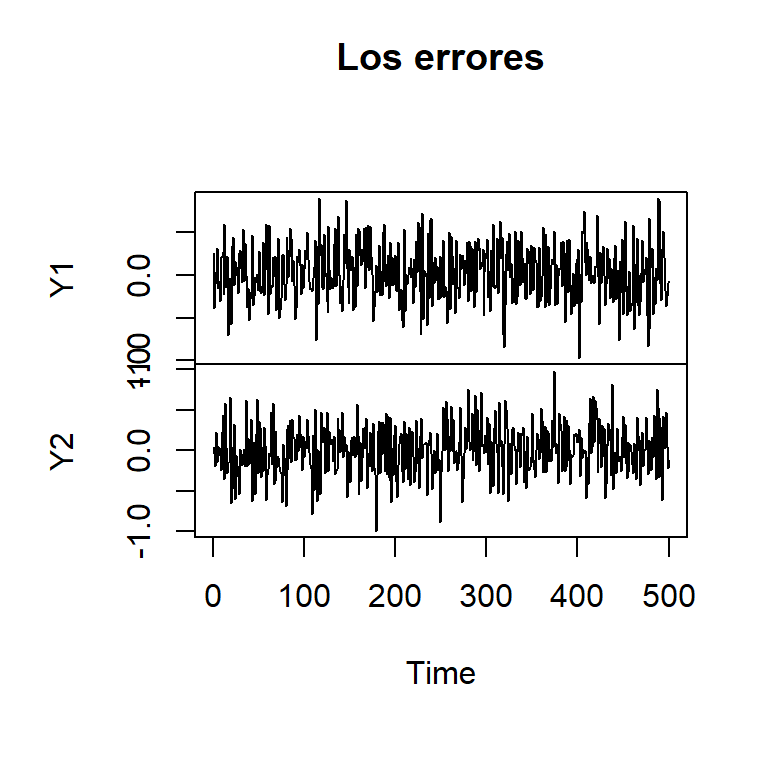
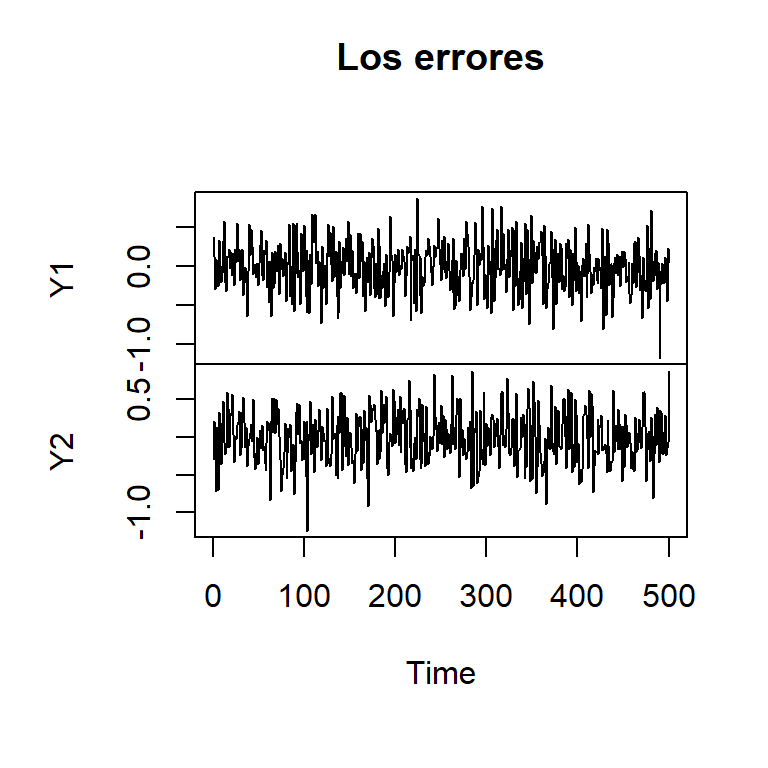
Tema_9

diff --git a/Tema_9/lab.html b/Tema_9/lab.html
@@ -403,11 +403,11 @@ AIC(n)  HQ(n)  SC(n) FPE(n)
      2      2      2      2 
 
 $criteria
-                 1            2            3
-AIC(n) -4.48294147 -4.628506433 -4.617970661
-HQ(n)  -4.46299940 -4.595269659 -4.571439178
-SC(n)  -4.43213354 -4.543826553 -4.499418829
-FPE(n)  0.01130013  0.009769353  0.009872848</code></pre>
+                 1           2           3
+AIC(n) -4.35177844 -4.50272239 -4.49662290
+HQ(n)  -4.33183638 -4.46948561 -4.45009141
+SC(n)  -4.30097051 -4.41804251 -4.37807106
+FPE(n)  0.01288388  0.01107881  0.01114662</code></pre>
 </div>
 </div>
 </section>
@@ -419,35 +419,35 @@ FPE(n)  0.01130013  0.009769353  0.009872848</code></pre>
 <div class="sourceCode cell-code" id="cb14"><pre class="sourceCode r code-with-copy"><code class="sourceCode r"><span id="cb14-1"><a href="#cb14-1" aria-hidden="true" tabindex="-1"></a>MTSVAR2 <span class="ot">&lt;-</span> MTS<span class="sc">::</span><span class="fu">VAR</span>(simVAR2_realizaciones, <span class="at">p =</span> <span class="dv">2</span>)</span></code><button title="Copiar al portapapeles" class="code-copy-button"><i class="bi"></i></button></pre></div>
 <div class="cell-output cell-output-stdout">
 <pre><code>Constant term: 
-Estimates:  0.02602912 0.002327675 
-Std.Error:  0.01486751 0.01417065 
+Estimates:  -0.002701465 -0.001229137 
+Std.Error:  0.01395233 0.01521598 
 AR coefficient matrix 
 AR( 1 )-matrix 
       [,1]   [,2]
-[1,] 0.478 0.0157
-[2,] 0.183 0.4087
+[1,] 0.414 0.0354
+[2,] 0.144 0.4478
 standard error 
        [,1]   [,2]
-[1,] 0.0445 0.0448
-[2,] 0.0424 0.0427
+[1,] 0.0438 0.0404
+[2,] 0.0478 0.0441
 AR( 2 )-matrix 
-      [,1]    [,2]
-[1,] 0.212 0.00393
-[2,] 0.142 0.29040
+       [,1]    [,2]
+[1,] 0.2852 -0.0818
+[2,] 0.0861  0.2546
 standard error 
        [,1]   [,2]
-[1,] 0.0465 0.0427
-[2,] 0.0444 0.0407
+[1,] 0.0446 0.0394
+[2,] 0.0487 0.0430
   
 Residuals cov-mtx: 
            [,1]       [,2]
-[1,] 0.10225003 0.01186673
-[2,] 0.01186673 0.09288958
+[1,] 0.09590544 0.01788984
+[2,] 0.01788984 0.11406440
   
-det(SSE) =  0.009357143 
-AIC =  -4.639615 
-BIC =  -4.572182 
-HQ  =  -4.613154 </code></pre>
+det(SSE) =  0.01061935 
+AIC =  -4.513077 
+BIC =  -4.445644 
+HQ  =  -4.486617 </code></pre>
 </div>
 </div>
 </section>
@@ -465,9 +465,9 @@ VAR Estimation Results:
 Endogenous variables: Y1, Y2 
 Deterministic variables: const 
 Sample size: 498 
-Log Likelihood: -250.031 
+Log Likelihood: -281.539 
 Roots of the characteristic polynomial:
-0.8314 0.7064 0.3708 0.2806
+0.7903 0.7903 0.3571 0.3571
 Call:
 vars::VAR(y = simVAR2_realizaciones, p = 2, type = "const", exogen = NULL)
 
@@ -476,50 +476,50 @@ Estimation results for equation Y1:
 =================================== 
 Y1 = Y1.l1 + Y2.l1 + Y1.l2 + Y2.l2 + const 
 
-      Estimate Std. Error t value Pr(&gt;|t|)    
-Y1.l1 0.477694   0.044483  10.739  &lt; 2e-16 ***
-Y2.l1 0.015682   0.044841   0.350   0.7267    
-Y1.l2 0.212313   0.046536   4.562 6.39e-06 ***
-Y2.l2 0.003926   0.042663   0.092   0.9267    
-const 0.026029   0.014868   1.751   0.0806 .  
+       Estimate Std. Error t value Pr(&gt;|t|)    
+Y1.l1  0.414265   0.043828   9.452  &lt; 2e-16 ***
+Y2.l1  0.035428   0.040399   0.877   0.3809    
+Y1.l2  0.285156   0.044628   6.390 3.86e-10 ***
+Y2.l2 -0.081769   0.039388  -2.076   0.0384 *  
+const -0.002701   0.013952  -0.194   0.8466    
 ---
 Signif. codes:  0 '***' 0.001 '**' 0.01 '*' 0.05 '.' 0.1 ' ' 1
 
 
-Residual standard error: 0.3214 on 493 degrees of freedom
-Multiple R-Squared: 0.4155, Adjusted R-squared: 0.4108 
-F-statistic: 87.63 on 4 and 493 DF,  p-value: &lt; 2.2e-16 
+Residual standard error: 0.3113 on 493 degrees of freedom
+Multiple R-Squared: 0.3792, Adjusted R-squared: 0.3742 
+F-statistic: 75.28 on 4 and 493 DF,  p-value: &lt; 2.2e-16 
 
 
 Estimation results for equation Y2: 
 =================================== 
 Y2 = Y1.l1 + Y2.l1 + Y1.l2 + Y2.l2 + const 
 
-      Estimate Std. Error t value Pr(&gt;|t|)    
-Y1.l1 0.183107   0.042398   4.319 1.90e-05 ***
-Y2.l1 0.408712   0.042739   9.563  &lt; 2e-16 ***
-Y1.l2 0.141889   0.044355   3.199  0.00147 ** 
-Y2.l2 0.290404   0.040663   7.142 3.33e-12 ***
-const 0.002328   0.014171   0.164  0.86959    
+       Estimate Std. Error t value Pr(&gt;|t|)    
+Y1.l1  0.144022   0.047798   3.013  0.00272 ** 
+Y2.l1  0.447812   0.044058  10.164  &lt; 2e-16 ***
+Y1.l2  0.086053   0.048670   1.768  0.07767 .  
+Y2.l2  0.254605   0.042955   5.927 5.79e-09 ***
+const -0.001229   0.015216  -0.081  0.93565    
 ---
 Signif. codes:  0 '***' 0.001 '**' 0.01 '*' 0.05 '.' 0.1 ' ' 1
 
 
-Residual standard error: 0.3063 on 493 degrees of freedom
-Multiple R-Squared: 0.6435, Adjusted R-squared: 0.6406 
-F-statistic: 222.5 on 4 and 493 DF,  p-value: &lt; 2.2e-16 
+Residual standard error: 0.3394 on 493 degrees of freedom
+Multiple R-Squared: 0.5246, Adjusted R-squared: 0.5207 
+F-statistic:   136 on 4 and 493 DF,  p-value: &lt; 2.2e-16 
 
 
 
 Covariance matrix of residuals:
         Y1      Y2
-Y1 0.10329 0.01199
-Y2 0.01199 0.09383
+Y1 0.09688 0.01807
+Y2 0.01807 0.11522
 
 Correlation matrix of residuals:
-       Y1     Y2
-Y1 1.0000 0.1218
-Y2 0.1218 1.0000</code></pre>
+      Y1    Y2
+Y1 1.000 0.171
+Y2 0.171 1.000</code></pre>
 </div>
 </div>
 </section>
@@ -529,7 +529,7 @@ Y2 0.1218 1.0000</code></pre>
 <div class="sourceCode cell-code" id="cb18"><pre class="sourceCode r code-with-copy"><code class="sourceCode r"><span id="cb18-1"><a href="#cb18-1" aria-hidden="true" tabindex="-1"></a>roots <span class="ot">&lt;-</span> vars<span class="sc">::</span><span class="fu">roots</span>(varsVAR2)</span>
 <span id="cb18-2"><a href="#cb18-2" aria-hidden="true" tabindex="-1"></a>roots</span></code><button title="Copiar al portapapeles" class="code-copy-button"><i class="bi"></i></button></pre></div>
 <div class="cell-output cell-output-stdout">
-<pre><code>[1] 0.8314035 0.7063768 0.3707953 0.2805794</code></pre>
+<pre><code>[1] 0.7902677 0.7902677 0.3570985 0.3570985</code></pre>
 </div>
 </div>
 </section>
@@ -1552,7 +1552,7 @@ $part
 <div class="cell">
 <div class="sourceCode cell-code" id="cb65"><pre class="sourceCode r code-with-copy"><code class="sourceCode r"><span id="cb65-1"><a href="#cb65-1" aria-hidden="true" tabindex="-1"></a>z<span class="ot">=</span><span class="fu">diffM</span>(pib)</span>
 <span id="cb65-2"><a href="#cb65-2" aria-hidden="true" tabindex="-1"></a>z<span class="ot">=</span>z<span class="sc">*</span><span class="dv">100</span></span>
-<span id="cb65-3"><a href="#cb65-3" aria-hidden="true" tabindex="-1"></a>stats<span class="sc">::</span><span class="fu">acf</span>(z,<span class="at">lag.max =</span> <span class="dv">100</span>)</span></code><button title="Copiar al portapapeles" class="code-copy-button"><i class="bi"></i></button></pre></div>
+<span id="cb65-3"><a href="#cb65-3" aria-hidden="true" tabindex="-1"></a><span class="fu">plot.ts</span>(z)</span></code><button title="Copiar al portapapeles" class="code-copy-button"><i class="bi"></i></button></pre></div>
 <div class="cell-output-display">
 <div>
 <figure class="figure">
@@ -1560,9 +1560,17 @@ $part
 </figure>
 </div>
 </div>
+<div class="sourceCode cell-code" id="cb66"><pre class="sourceCode r code-with-copy"><code class="sourceCode r"><span id="cb66-1"><a href="#cb66-1" aria-hidden="true" tabindex="-1"></a>stats<span class="sc">::</span><span class="fu">acf</span>(z,<span class="at">lag.max =</span> <span class="dv">100</span>)</span></code><button title="Copiar al portapapeles" class="code-copy-button"><i class="bi"></i></button></pre></div>
+<div class="cell-output-display">
+<div>
+<figure class="figure">
+<p><img src="lab_files/figure-html/unnamed-chunk-24-2.png" class="img-fluid figure-img" width="384"></p>
+</figure>
+</div>
+</div>
 </div>
 <div class="cell">
-<div class="sourceCode cell-code" id="cb66"><pre class="sourceCode r code-with-copy"><code class="sourceCode r"><span id="cb66-1"><a href="#cb66-1" aria-hidden="true" tabindex="-1"></a><span class="fu">VARselect</span>(z, <span class="at">lag.max=</span><span class="dv">10</span>, <span class="at">type=</span><span class="st">"both"</span>)</span></code><button title="Copiar al portapapeles" class="code-copy-button"><i class="bi"></i></button></pre></div>
+<div class="sourceCode cell-code" id="cb67"><pre class="sourceCode r code-with-copy"><code class="sourceCode r"><span id="cb67-1"><a href="#cb67-1" aria-hidden="true" tabindex="-1"></a><span class="fu">VARselect</span>(z, <span class="at">lag.max=</span><span class="dv">10</span>, <span class="at">type=</span><span class="st">"both"</span>)</span></code><button title="Copiar al portapapeles" class="code-copy-button"><i class="bi"></i></button></pre></div>
 <div class="cell-output cell-output-stdout">
 <pre><code>$selection
 AIC(n)  HQ(n)  SC(n) FPE(n) 
@@ -1580,8 +1588,8 @@ HQ(n)  -3.17182251 -3.18206536 -3.01284892 -2.81391302
 SC(n)  -2.19335579 -2.07597254 -1.77913001 -1.45256802
 FPE(n)  0.02184202  0.01996242  0.02187576  0.02475373</code></pre>
 </div>
-<div class="sourceCode cell-code" id="cb68"><pre class="sourceCode r code-with-copy"><code class="sourceCode r"><span id="cb68-1"><a href="#cb68-1" aria-hidden="true" tabindex="-1"></a>modvar <span class="ot">&lt;-</span> vars<span class="sc">::</span><span class="fu">VAR</span>(z, <span class="at">p=</span><span class="dv">2</span>, <span class="at">type=</span><span class="st">"both"</span>)</span>
-<span id="cb68-2"><a href="#cb68-2" aria-hidden="true" tabindex="-1"></a><span class="fu">summary</span>(modvar)</span></code><button title="Copiar al portapapeles" class="code-copy-button"><i class="bi"></i></button></pre></div>
+<div class="sourceCode cell-code" id="cb69"><pre class="sourceCode r code-with-copy"><code class="sourceCode r"><span id="cb69-1"><a href="#cb69-1" aria-hidden="true" tabindex="-1"></a>modvar <span class="ot">&lt;-</span> vars<span class="sc">::</span><span class="fu">VAR</span>(z, <span class="at">p=</span><span class="dv">2</span>, <span class="at">type=</span><span class="st">"both"</span>)</span>
+<span id="cb69-2"><a href="#cb69-2" aria-hidden="true" tabindex="-1"></a><span class="fu">summary</span>(modvar)</span></code><button title="Copiar al portapapeles" class="code-copy-button"><i class="bi"></i></button></pre></div>
 <div class="cell-output cell-output-stdout">
 <pre><code>
 VAR Estimation Results:
@@ -1679,7 +1687,7 @@ us 0.2201 0.4502 1.0000</code></pre>
 <section id="dianósticos" class="level3" data-number="3.2.1">
 <h3 data-number="3.2.1" class="anchored" data-anchor-id="dianósticos"><span class="header-section-number">3.2.1</span> Dianósticos</h3>
 <div class="cell">
-<div class="sourceCode cell-code" id="cb70"><pre class="sourceCode r code-with-copy"><code class="sourceCode r"><span id="cb70-1"><a href="#cb70-1" aria-hidden="true" tabindex="-1"></a>stats<span class="sc">::</span><span class="fu">acf</span>(<span class="fu">resid</span>(modvar), <span class="dv">52</span>)</span></code><button title="Copiar al portapapeles" class="code-copy-button"><i class="bi"></i></button></pre></div>
+<div class="sourceCode cell-code" id="cb71"><pre class="sourceCode r code-with-copy"><code class="sourceCode r"><span id="cb71-1"><a href="#cb71-1" aria-hidden="true" tabindex="-1"></a>stats<span class="sc">::</span><span class="fu">acf</span>(<span class="fu">resid</span>(modvar), <span class="dv">52</span>)</span></code><button title="Copiar al portapapeles" class="code-copy-button"><i class="bi"></i></button></pre></div>
 <div class="cell-output-display">
 <div>
 <figure class="figure">
@@ -1687,7 +1695,7 @@ us 0.2201 0.4502 1.0000</code></pre>
 </figure>
 </div>
 </div>
-<div class="sourceCode cell-code" id="cb71"><pre class="sourceCode r code-with-copy"><code class="sourceCode r"><span id="cb71-1"><a href="#cb71-1" aria-hidden="true" tabindex="-1"></a><span class="fu">serial.test</span>(modvar, <span class="at">lags.pt=</span><span class="dv">12</span>, <span class="at">type=</span><span class="st">"PT.adjusted"</span>)</span></code><button title="Copiar al portapapeles" class="code-copy-button"><i class="bi"></i></button></pre></div>
+<div class="sourceCode cell-code" id="cb72"><pre class="sourceCode r code-with-copy"><code class="sourceCode r"><span id="cb72-1"><a href="#cb72-1" aria-hidden="true" tabindex="-1"></a><span class="fu">serial.test</span>(modvar, <span class="at">lags.pt=</span><span class="dv">12</span>, <span class="at">type=</span><span class="st">"PT.adjusted"</span>)</span></code><button title="Copiar al portapapeles" class="code-copy-button"><i class="bi"></i></button></pre></div>
 <div class="cell-output cell-output-stdout">
 <pre><code>
     Portmanteau Test (adjusted)
@@ -1697,7 +1705,7 @@ Chi-squared = 94.625, df = 90, p-value = 0.3488</code></pre>
 </div>
 </div>
 <div class="cell">
-<div class="sourceCode cell-code" id="cb73"><pre class="sourceCode r code-with-copy"><code class="sourceCode r"><span id="cb73-1"><a href="#cb73-1" aria-hidden="true" tabindex="-1"></a><span class="fu">shapiro.test</span>(<span class="fu">residuals</span>(modvar)[,<span class="dv">1</span>])</span></code><button title="Copiar al portapapeles" class="code-copy-button"><i class="bi"></i></button></pre></div>
+<div class="sourceCode cell-code" id="cb74"><pre class="sourceCode r code-with-copy"><code class="sourceCode r"><span id="cb74-1"><a href="#cb74-1" aria-hidden="true" tabindex="-1"></a><span class="fu">shapiro.test</span>(<span class="fu">residuals</span>(modvar)[,<span class="dv">1</span>])</span></code><button title="Copiar al portapapeles" class="code-copy-button"><i class="bi"></i></button></pre></div>
 <div class="cell-output cell-output-stdout">
 <pre><code>
     Shapiro-Wilk normality test
@@ -1705,7 +1713,7 @@ Chi-squared = 94.625, df = 90, p-value = 0.3488</code></pre>
 data:  residuals(modvar)[, 1]
 W = 0.94777, p-value = 0.0001218</code></pre>
 </div>
-<div class="sourceCode cell-code" id="cb75"><pre class="sourceCode r code-with-copy"><code class="sourceCode r"><span id="cb75-1"><a href="#cb75-1" aria-hidden="true" tabindex="-1"></a><span class="fu">shapiro.test</span>(<span class="fu">residuals</span>(modvar)[,<span class="dv">2</span>])</span></code><button title="Copiar al portapapeles" class="code-copy-button"><i class="bi"></i></button></pre></div>
+<div class="sourceCode cell-code" id="cb76"><pre class="sourceCode r code-with-copy"><code class="sourceCode r"><span id="cb76-1"><a href="#cb76-1" aria-hidden="true" tabindex="-1"></a><span class="fu">shapiro.test</span>(<span class="fu">residuals</span>(modvar)[,<span class="dv">2</span>])</span></code><button title="Copiar al portapapeles" class="code-copy-button"><i class="bi"></i></button></pre></div>
 <div class="cell-output cell-output-stdout">
 <pre><code>
     Shapiro-Wilk normality test
@@ -1713,7 +1721,7 @@ W = 0.94777, p-value = 0.0001218</code></pre>
 data:  residuals(modvar)[, 2]
 W = 0.98196, p-value = 0.09955</code></pre>
 </div>
-<div class="sourceCode cell-code" id="cb77"><pre class="sourceCode r code-with-copy"><code class="sourceCode r"><span id="cb77-1"><a href="#cb77-1" aria-hidden="true" tabindex="-1"></a><span class="fu">shapiro.test</span>(<span class="fu">residuals</span>(modvar)[,<span class="dv">3</span>])</span></code><button title="Copiar al portapapeles" class="code-copy-button"><i class="bi"></i></button></pre></div>
+<div class="sourceCode cell-code" id="cb78"><pre class="sourceCode r code-with-copy"><code class="sourceCode r"><span id="cb78-1"><a href="#cb78-1" aria-hidden="true" tabindex="-1"></a><span class="fu">shapiro.test</span>(<span class="fu">residuals</span>(modvar)[,<span class="dv">3</span>])</span></code><button title="Copiar al portapapeles" class="code-copy-button"><i class="bi"></i></button></pre></div>
 <div class="cell-output cell-output-stdout">
 <pre><code>
     Shapiro-Wilk normality test
@@ -1721,7 +1729,7 @@ W = 0.98196, p-value = 0.09955</code></pre>
 data:  residuals(modvar)[, 3]
 W = 0.92658, p-value = 4.645e-06</code></pre>
 </div>
-<div class="sourceCode cell-code" id="cb79"><pre class="sourceCode r code-with-copy"><code class="sourceCode r"><span id="cb79-1"><a href="#cb79-1" aria-hidden="true" tabindex="-1"></a>mvnormtest<span class="sc">::</span><span class="fu">mshapiro.test</span>(<span class="fu">t</span>(<span class="fu">residuals</span>(modvar)))</span></code><button title="Copiar al portapapeles" class="code-copy-button"><i class="bi"></i></button></pre></div>
+<div class="sourceCode cell-code" id="cb80"><pre class="sourceCode r code-with-copy"><code class="sourceCode r"><span id="cb80-1"><a href="#cb80-1" aria-hidden="true" tabindex="-1"></a>mvnormtest<span class="sc">::</span><span class="fu">mshapiro.test</span>(<span class="fu">t</span>(<span class="fu">residuals</span>(modvar)))</span></code><button title="Copiar al portapapeles" class="code-copy-button"><i class="bi"></i></button></pre></div>
 <div class="cell-output cell-output-stdout">
 <pre><code>
     Shapiro-Wilk normality test
@@ -1734,7 +1742,7 @@ W = 0.93507, p-value = 1.611e-05</code></pre>
 <section id="pronósticos" class="level3" data-number="3.2.2">
 <h3 data-number="3.2.2" class="anchored" data-anchor-id="pronósticos"><span class="header-section-number">3.2.2</span> Pronósticos</h3>
 <div class="cell">
-<div class="sourceCode cell-code" id="cb81"><pre class="sourceCode r code-with-copy"><code class="sourceCode r"><span id="cb81-1"><a href="#cb81-1" aria-hidden="true" tabindex="-1"></a>(<span class="at">mod.pronostico =</span> <span class="fu">predict</span>(modvar, <span class="at">n.ahead =</span> <span class="dv">5</span>, <span class="at">ci =</span> <span class="fl">0.95</span>))  </span></code><button title="Copiar al portapapeles" class="code-copy-button"><i class="bi"></i></button></pre></div>
+<div class="sourceCode cell-code" id="cb82"><pre class="sourceCode r code-with-copy"><code class="sourceCode r"><span id="cb82-1"><a href="#cb82-1" aria-hidden="true" tabindex="-1"></a>(<span class="at">mod.pronostico =</span> <span class="fu">predict</span>(modvar, <span class="at">n.ahead =</span> <span class="dv">5</span>, <span class="at">ci =</span> <span class="fl">0.95</span>))  </span></code><button title="Copiar al portapapeles" class="code-copy-button"><i class="bi"></i></button></pre></div>
 <div class="cell-output cell-output-stdout">
 <pre><code>$uk
           fcst      lower    upper       CI
@@ -1760,7 +1768,7 @@ $us
 [4,] 0.30233628 -1.168107 1.772779 1.470443
 [5,] 0.31277249 -1.162612 1.788157 1.475385</code></pre>
 </div>
-<div class="sourceCode cell-code" id="cb83"><pre class="sourceCode r code-with-copy"><code class="sourceCode r"><span id="cb83-1"><a href="#cb83-1" aria-hidden="true" tabindex="-1"></a><span class="fu">fanchart</span>(mod.pronostico)</span></code><button title="Copiar al portapapeles" class="code-copy-button"><i class="bi"></i></button></pre></div>
+<div class="sourceCode cell-code" id="cb84"><pre class="sourceCode r code-with-copy"><code class="sourceCode r"><span id="cb84-1"><a href="#cb84-1" aria-hidden="true" tabindex="-1"></a><span class="fu">fanchart</span>(mod.pronostico)</span></code><button title="Copiar al portapapeles" class="code-copy-button"><i class="bi"></i></button></pre></div>
 <div class="cell-output-display">
 <div>
 <figure class="figure">

diff --git a/Tema_9/presentacion.html b/Tema_9/presentacion.html
@@ -724,11 +724,12 @@ Autocorrelations of series 'X', by lag
 </ol>
 </div>
 </section>
-<section id="modelos-autorregresivos-multivariados" class="slide level2">
-<h2>Modelos autorregresivos multivariados</h2>
+<section id="varp-1" class="slide level2">
+<h2>VAR(p)</h2>
 <ul>
 <li><p>Es un caso particular de los modelos de series temporales multivariados que supone que la observación de cada variable depende linealmente de los rezagos pasados de ella misma y también de otras variables.</p></li>
-<li><p>Para introducir el modelo, vamos a empezar con el VAR(1) de 3 series: <span class="math inline">\(X_{t,1},X_{t,2},X_{t,3}\)</span>.</p></li>
+<li><p>Comúnmente se les conoce como <span class="alert">modelos autorregresivos multivariados</span> o <span class="alert">modelos autorregresivos vectoriales</span>.</p></li>
+<li><p>Empezamos con el <span class="alert">modelo autorregresivo vectorial de orden 1, VAR(1)</span>, de dimensión 3 (3 series): <span class="math inline">\(X_{t,1},X_{t,2},X_{t,3}\)</span>.</p></li>
 <li><p>El VAR(1) se define de la siguiente forma:</p></li>
 </ul>
 <p><span class="math display">\[\begin{align*}
@@ -766,8 +767,8 @@ w_{t,2}\\
 w_{t,3}
 \end{bmatrix}\]</span></p>
 </section>
-<section id="arx1-multivariado" class="slide level2">
-<h2>ARX(1) multivariado</h2>
+<section id="varx1" class="slide level2">
+<h2>VARX(1)</h2>
 <ul>
 <li>También es posible extender el modelo anterior con intercepto y tendencia: <span class="math display">\[\boldsymbol{X}_{t}=\boldsymbol{\Gamma} \boldsymbol{u}_t+\boldsymbol{\Phi}\boldsymbol{X}_{t-1}+\boldsymbol{w}_{t},\]</span></li>
 </ul>
@@ -785,12 +786,13 @@ X_{t,3} &amp;= \alpha_3 + \beta_3 t + \Phi_{31} X_{t-1,1} + \Phi_{32} X_{t-1,2} 
 <li><p>Note que X en ARX se refiere al vector exógeno denotado por <span class="math inline">\(u_t\)</span> y se puede extender fácilmente incluyendo variable exógenas.</p></li>
 </ul>
 </section>
-<section id="arxp-multivariado" class="slide level2">
-<h2>ARX(p) multivariado</h2>
+<section id="varxp" class="slide level2">
+<h2>VARX(p)</h2>
 <ul>
 <li>De esta forma, se puede generalizar a series temporales <span class="math inline">\(K\)</span>-dimensionales y <span class="math inline">\(p\)</span> rezagos:</li>
 </ul>
-<p><span class="math display">\[\boldsymbol{X}_{t}=\boldsymbol{\Gamma} \boldsymbol{u}_t+\boldsymbol{\Phi_1}\boldsymbol{X}_{t-1}+...+\boldsymbol{\Phi_p}\boldsymbol{X}_{t-p}+\boldsymbol{w}_{t}\]</span> en donde <span class="math display">\[\boldsymbol{X}_{t}=
+<p><span class="math display">\[\boldsymbol{X}_{t}=\boldsymbol{\Gamma} \boldsymbol{u}_t+\boldsymbol{\Phi_1}\boldsymbol{X}_{t-1}+...+\boldsymbol{\Phi_p}\boldsymbol{X}_{t-p}+\boldsymbol{w}_{t}\]</span> en donde <span class="math inline">\(u_t\)</span> es un vector <span class="math inline">\(k \times 1\)</span> de <span class="math inline">\(k\)</span> variables exógenas y <span class="math inline">\(\boldsymbol{\Gamma}\)</span> es una matriz <span class="math inline">\(r \times k\)</span> de coeficientes asociados a las variables exógenas, y</p>
+<p><span class="math display">\[\boldsymbol{X}_{t}=
 \begin{bmatrix}X_{t,1}\\
 \vdots \\
 X_{t,K}
@@ -802,7 +804,6 @@ X_{t,K}
 \vdots\\
 w_{t,K}
 \end{bmatrix}\]</span></p>
-<p><span class="math inline">\(u_t\)</span> es un vector <span class="math inline">\(k \times 1\)</span> de <span class="math inline">\(k\)</span> variables exógenas y <span class="math inline">\(\boldsymbol{\Gamma}\)</span> es una matriz <span class="math inline">\(r \times k\)</span> de coeficientes asociados a las variables exógenas.</p>
 </section>
 <section id="arxp-multivariado-o-varxp" class="slide level2">
 <h2>ARX(p) multivariado o VARX(p)</h2>
@@ -841,18 +842,20 @@ I &amp; 0 &amp; ... &amp; 0 &amp; 0 \\
 </section>
 <section id="criterio-de-información" class="slide level2">
 <h2>Criterio de información</h2>
+<p>Debido a la complejidad de selección del orden <span class="math inline">\(p\)</span>, en la práctica se usan los criterios de información:</p>
 <ul>
-<li>Debido a la complejidad de selección del orden <span class="math inline">\(p\)</span>, en la práctica se usan los criterios de información:</li>
-</ul>
-<p><span class="alert">AIC:</span> <span class="math display">\[AIC(p)= \log \det(\tilde{Z}_u(p))+\frac{2}{T}pK^2\]</span> <span class="alert">HQ (Hannan-Quinn):</span></p>
-<p><span class="math display">\[HQ(p)= \log \det(\tilde{Z}_u(p))+\frac{2\log(\log(T))}{T}pK^2\]</span></p>
-<p>donde <span class="math inline">\(\tilde{Z}_u(p)=T^{-1}\sum_{t=1}^T \hat{w}_t \hat{w}'_t\)</span>,<br>
+<li><span class="alert">AIC:</span> <span class="math display">\[AIC(p)= \log \det(\tilde{Z}_u(p))+\frac{2}{T}pK^2\]</span></li>
+<li><span class="alert">HQ (Hannan-Quinn):</span> <span class="math display">\[HQ(p)= \log \det(\tilde{Z}_u(p))+\frac{2\log(\log(T))}{T}pK^2\]</span> donde <span class="math inline">\(\tilde{Z}_u(p)=T^{-1}\sum_{t=1}^T \hat{w}_t \hat{w}'_t\)</span>,<br>
 <span class="math inline">\(p^*\)</span> es el total de parámetros en cada ecuación y<br>
-<span class="math inline">\(p\)</span> es el orden de rezago.</p>
+<span class="math inline">\(p\)</span> es el orden de rezago.</li>
+</ul>
 </section>
 <section class="slide level2">
 
-<p><span class="alert">BIC o criterio de información de Schwarz (SC):</span> <span class="math display">\[SC(p)= \log \det(\tilde{Z}_u(p))+\frac{\log(T)}{T}pK^2\]</span> <span class="alert">FPE (Final Predictor Error):</span> <span class="math display">\[FPE(p)=\left( \frac{T+p^*}{T-p^*}\right)^K \det(\tilde{Z}_u(p))\]</span></p>
+<ul>
+<li><span class="alert">BIC o criterio de información de Schwarz (SC):</span> <span class="math display">\[SC(p)= \log \det(\tilde{Z}_u(p))+\frac{\log(T)}{T}pK^2\]</span></li>
+<li><span class="alert">FPE (Final Predictor Error):</span> <span class="math display">\[FPE(p)=\left( \frac{T+p^*}{T-p^*}\right)^K \det(\tilde{Z}_u(p))\]</span></li>
+</ul>
 </section></section>
 <section>
 <section id="diagnósticos" class="title-slide slide level1 agenda-slide center">
